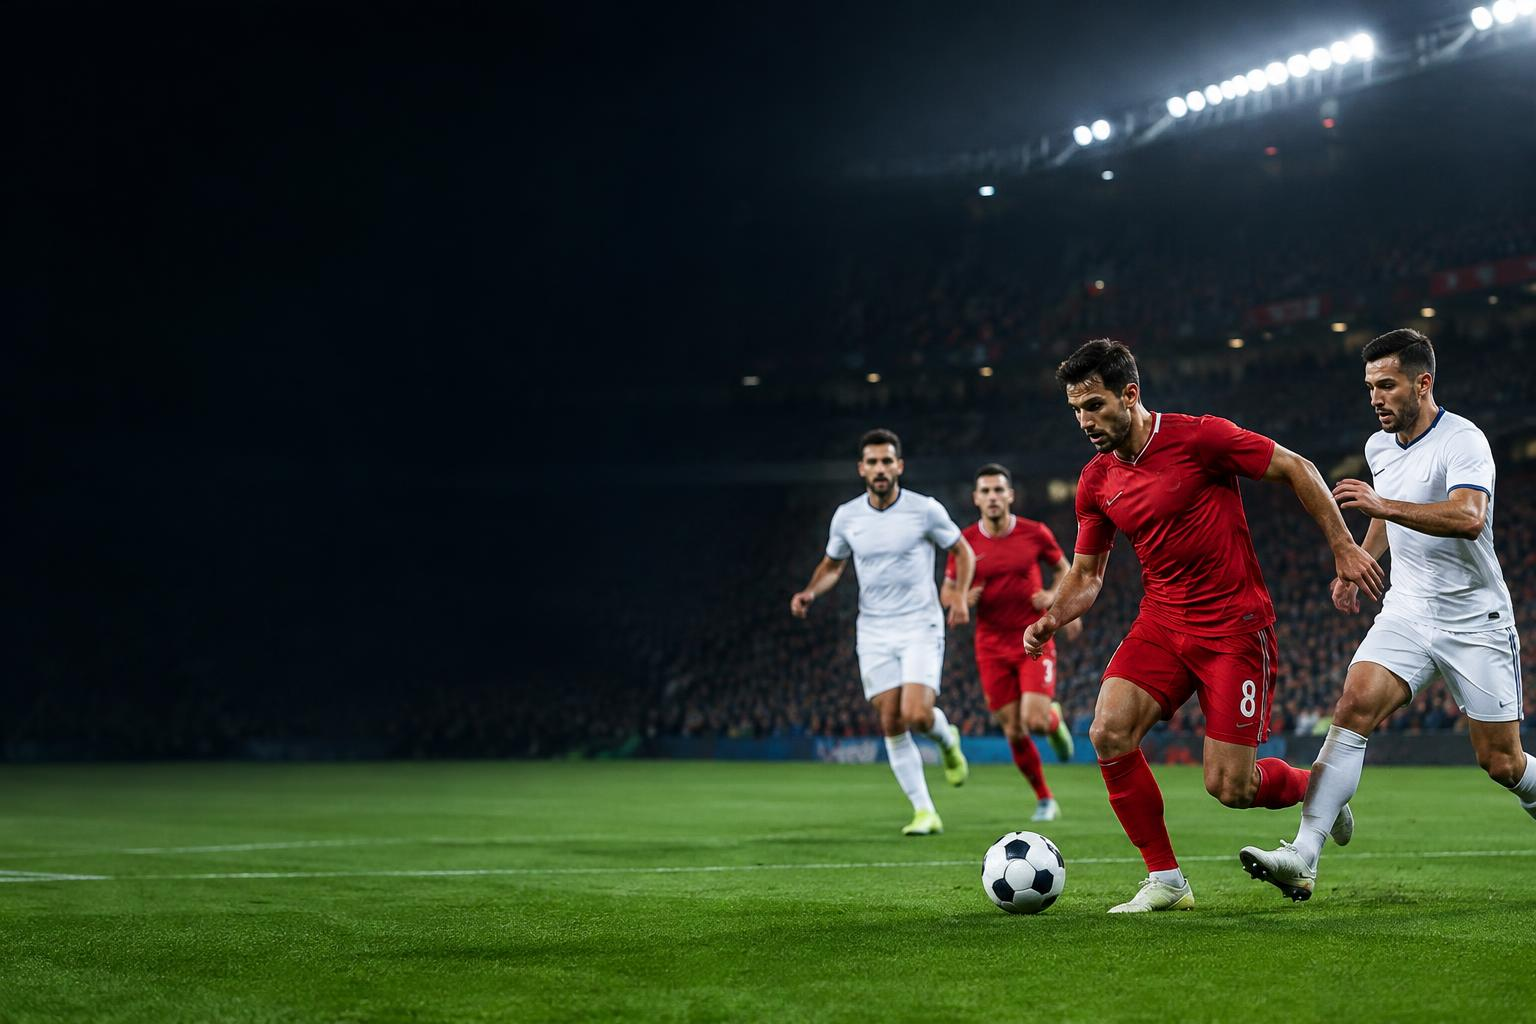
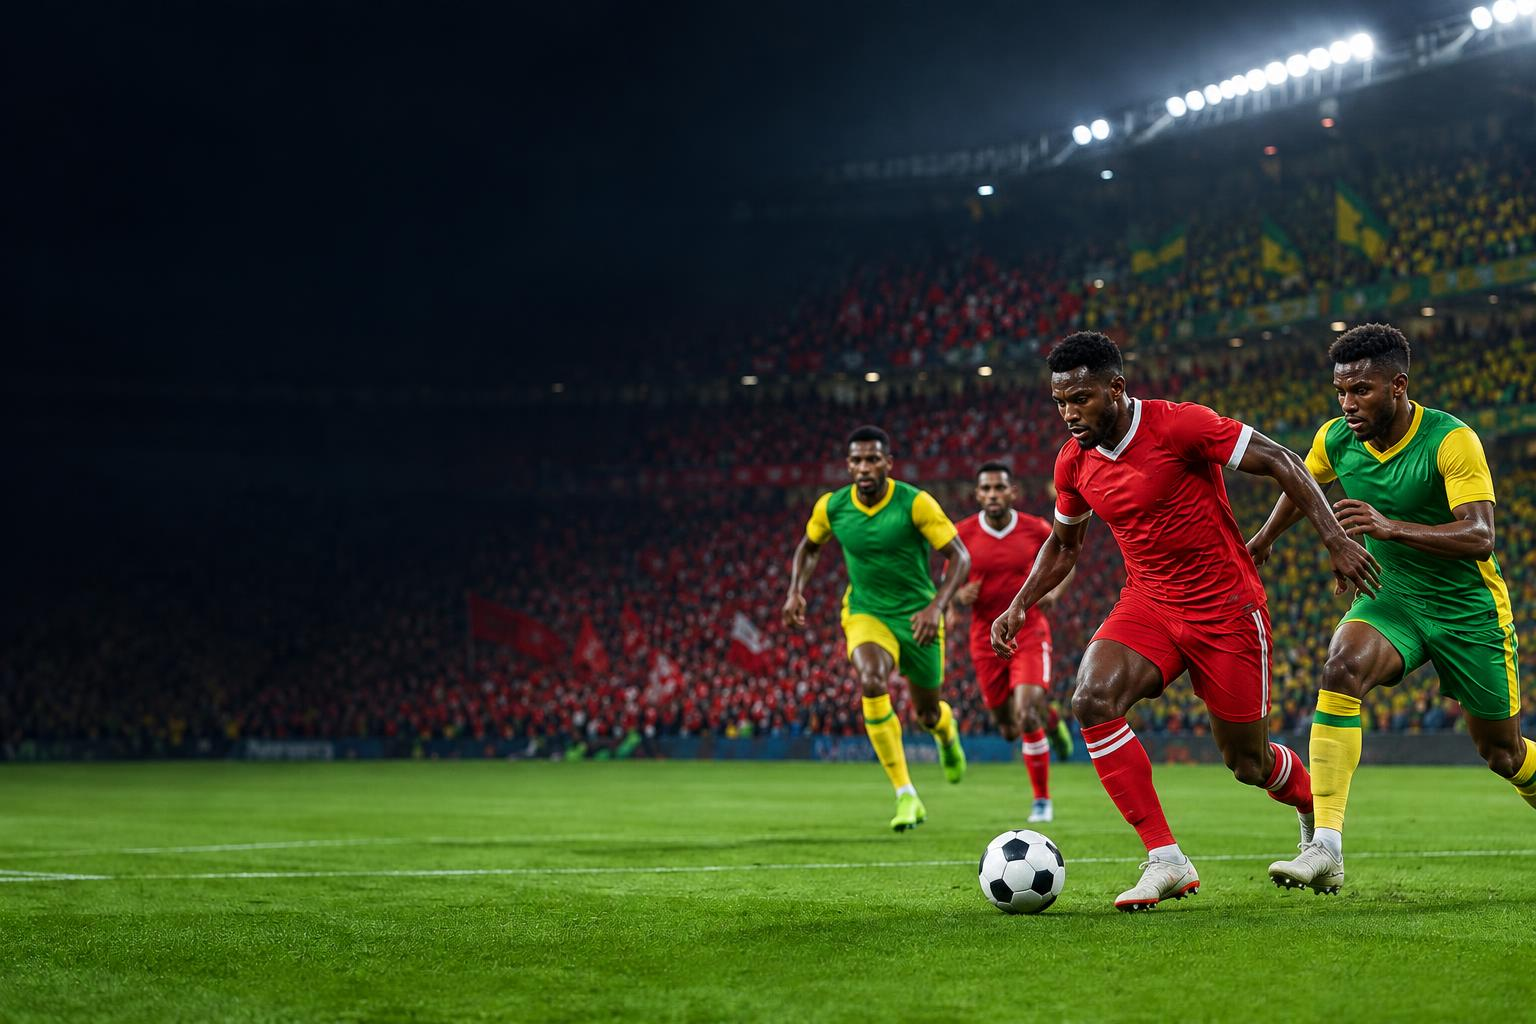
Show Simba and Yanga inspired football image and inside app preview outside

diff --git a/src/components/InstallGate.tsx b/src/components/InstallGate.tsx
@@ -5,6 +5,7 @@ import { Button } from "@/components/ui/button";
 import { useInstall } from "./InstallProvider";
 import { canViewServices } from "@/lib/install-access";
 import stadium from "@/assets/install-stadium.jpg";
+import insidePreview from "@/assets/app-inside-preview.jpg";
 import { useQuery } from "@tanstack/react-query";
 import { appearanceOptions, defaultAppearance } from "@/lib/site-appearance";
 import { useAuth } from "@/hooks/useAuth";
@@ -55,6 +56,12 @@ function InstallIntroduction() {
       <section className="mx-auto flex max-w-6xl items-center gap-4 px-6 py-8">
         <Smartphone className="h-8 w-8 shrink-0 text-primary" />
         <div><h2 className="font-display text-2xl">APP KWENYE SIMU YAKO</h2><p className="text-sm text-muted-foreground">Android au iPhone. Hakuna APK inayohitajika; kutazama kunahitaji intaneti.</p></div>
+      </section>
+      <section className="mx-auto max-w-6xl px-6 pb-12">
+        <h2 className="font-display text-3xl">NDANI YA KASIGARA TV</h2>
+        <figure className="mt-4 max-w-md">
+          <img src={insidePreview} alt="Muonekano wa ndani wa Kasigara TV: utafutaji, makundi na picha za chaneli" width={395} height={310} loading="lazy" className="h-auto w-full rounded-lg border border-border" />
+        </figure>
       </section>
     </main>
   );
